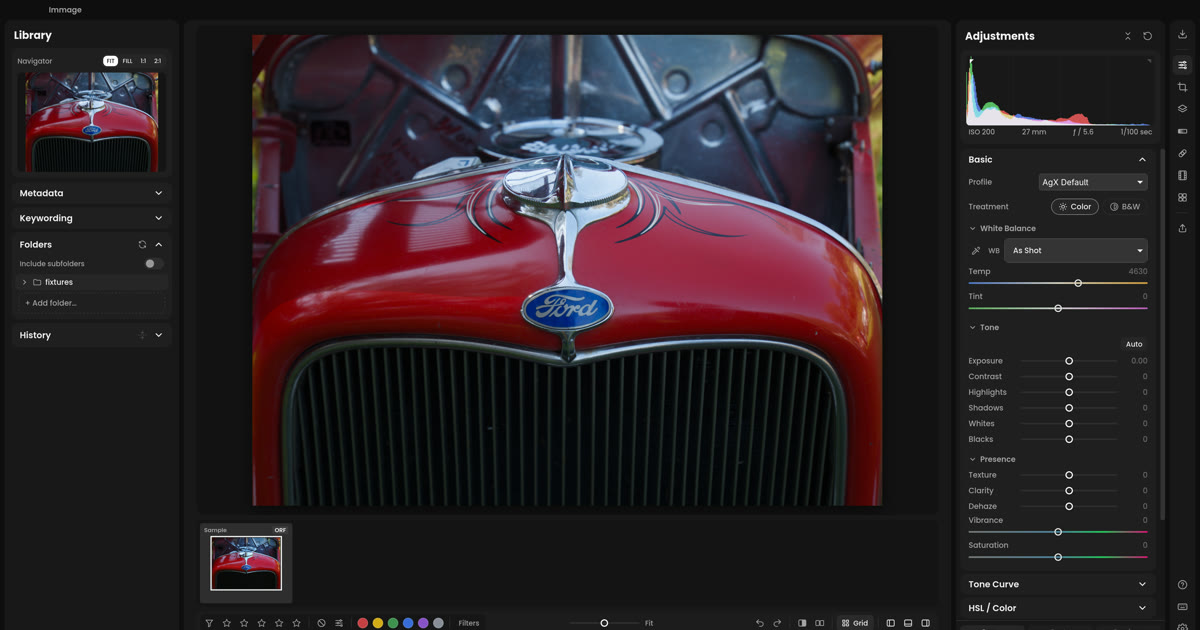
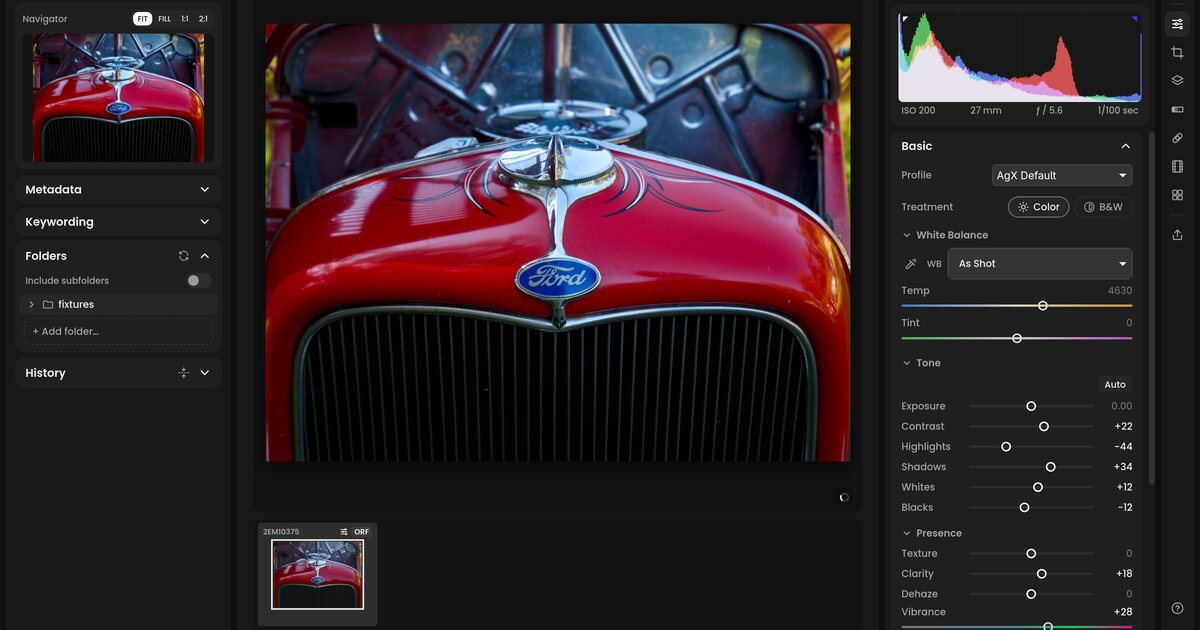
Show a before/after Basic edit and a new hero from the app
Screenshots of the current app, taken with the GUI harness on a raw of a
red vintage Ford. The Adjustments row gets a before/after slider.

diff --git a/src/lib/features.ts b/src/lib/features.ts
@@ -22,12 +22,12 @@ export const features: Feature[] = [
       "No process version to pick: AgX tone mapping plays that part.",
       "Auto tone, white balance presets and a live histogram with scopes.",
     ],
-    media: {
-      src: "media/adjustments-basic.webp",
-      alt: "The Adjustments panel with the histogram and expanded Basic controls for Profile, Treatment, White Balance, Tone and Presence",
-      width: 720,
-      height: 2164,
-      fit: "top",
+    compare: {
+      before: "media/basic-before.webp",
+      after: "media/basic-after.webp",
+      alt: "A raw photo of the front of a red vintage Ford, as shot and with Basic contrast, highlights, shadows, clarity and vibrance",
+      width: 1560,
+      height: 1167,
     },
   },
   {
